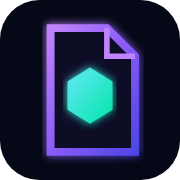
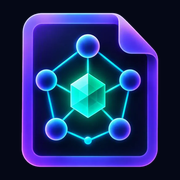
App-Symbol aus dem Vault (VaultServer/Bilder) statt SVG-Symbol
- favicon.ico (16–64 px) aus dem Vault, icon-32/192/512 aus dem Original (744 px), apple-touch-icon
  auf dunklem Grund; manifest.webmanifest für die Installation als App
- SVG-Symbol (favicon.svg) und die daraus gerenderten PNGs entfernt; Kopfzeile zeigt das neue Symbol

diff --git a/src/vaultserver/static/index.html b/src/vaultserver/static/index.html
@@ -4,10 +4,11 @@
 <meta charset="utf-8">
 <meta name="viewport" content="width=device-width, initial-scale=1">
 <title>VaultServer</title>
-<link rel="icon" type="image/svg+xml" href="/static/favicon.svg">
-<link rel="icon" type="image/png" sizes="32x32" href="/static/favicon-32.png">
-<link rel="icon" type="image/png" sizes="192x192" href="/static/favicon-192.png">
+<link rel="icon" href="/favicon.ico" sizes="16x16 32x32 48x48 64x64">
+<link rel="icon" type="image/png" sizes="32x32" href="/static/icon-32.png">
+<link rel="icon" type="image/png" sizes="192x192" href="/static/icon-192.png">
 <link rel="apple-touch-icon" href="/static/apple-touch-icon.png">
+<link rel="manifest" href="/static/manifest.webmanifest">
 <meta name="theme-color" content="#050816">
 <link rel="stylesheet" href="/static/vendor/codemirror.min.css">
 <link rel="stylesheet" href="/static/vendor/addon_hint_show-hint.min.css">
@@ -17,7 +18,7 @@
 <div id="app">
   <header>
     <button id="toggle-tree" title="Ordner">☰</button>
-    <span class="logo"><img src="/static/favicon.svg" alt="" width="22" height="22">VaultServer</span><span id="live" title="Live-Verbindung wird aufgebaut"></span>
+    <span class="logo"><img src="/static/icon-192.png" alt="" width="22" height="22">VaultServer</span><span id="live" title="Live-Verbindung wird aufgebaut"></span>
     <form class="search" id="search-form">
       <input type="search" id="q" placeholder="Suchen …  (Strg+K)" autocomplete="off">
       <label><input type="checkbox" id="q-archive"> Archiv</label>

diff --git a/src/vaultserver/static/app.css b/src/vaultserver/static/app.css
@@ -272,4 +272,4 @@ dialog.opt[open] { display: flex; flex-direction: column; }
 .md img[data-file] { cursor: zoom-in; }
 
 .logo { display: inline-flex; align-items: center; gap: 7px; }
-.logo img { width: 22px; height: 22px; border-radius: 5px; flex: none; }
+.logo img { width: 22px; height: 22px; flex: none; }

diff --git a/src/vaultserver/web.py b/src/vaultserver/web.py
@@ -662,7 +662,7 @@ def create_app(config: Config, start_background: bool = True) -> FastAPI:
 
     @app.get("/favicon.ico", include_in_schema=False)
     def favicon():
-        return FileResponse(STATIC / "favicon-32.png", media_type="image/png", headers={"Cache-Control": "max-age=86400"})
+        return FileResponse(STATIC / "favicon.ico", media_type="image/x-icon", headers={"Cache-Control": "max-age=86400"})
 
     @app.get("/static/{name:path}")
     def static(name: str):
